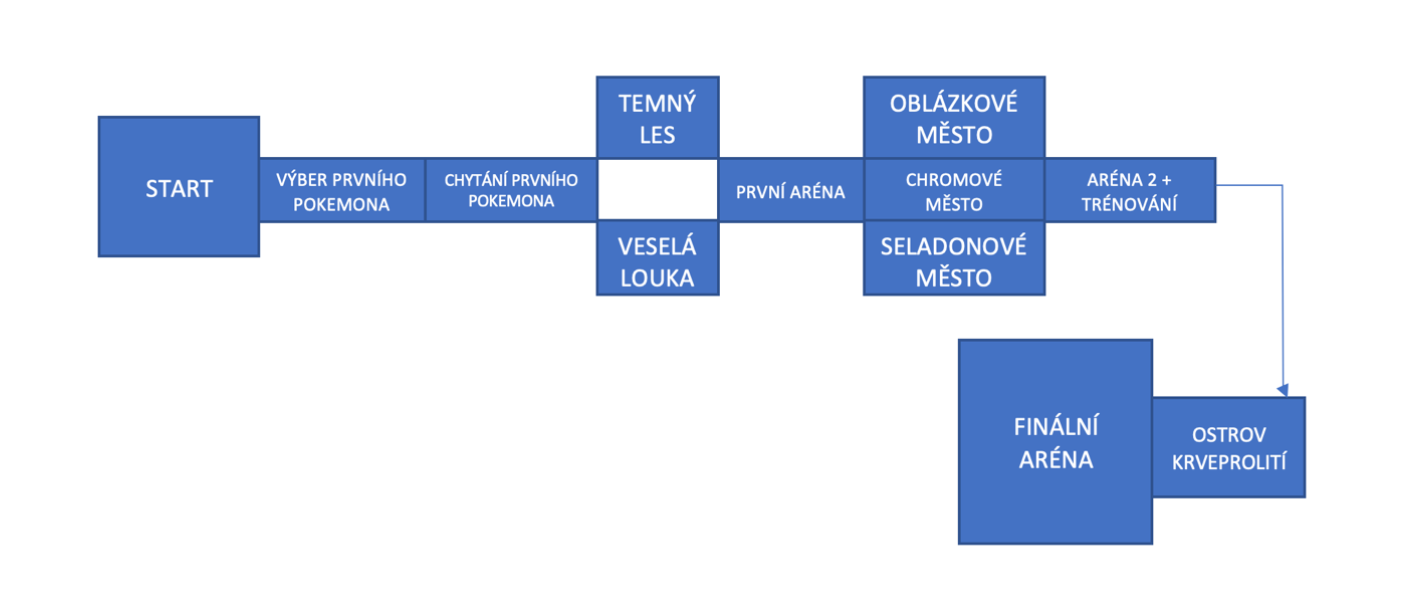
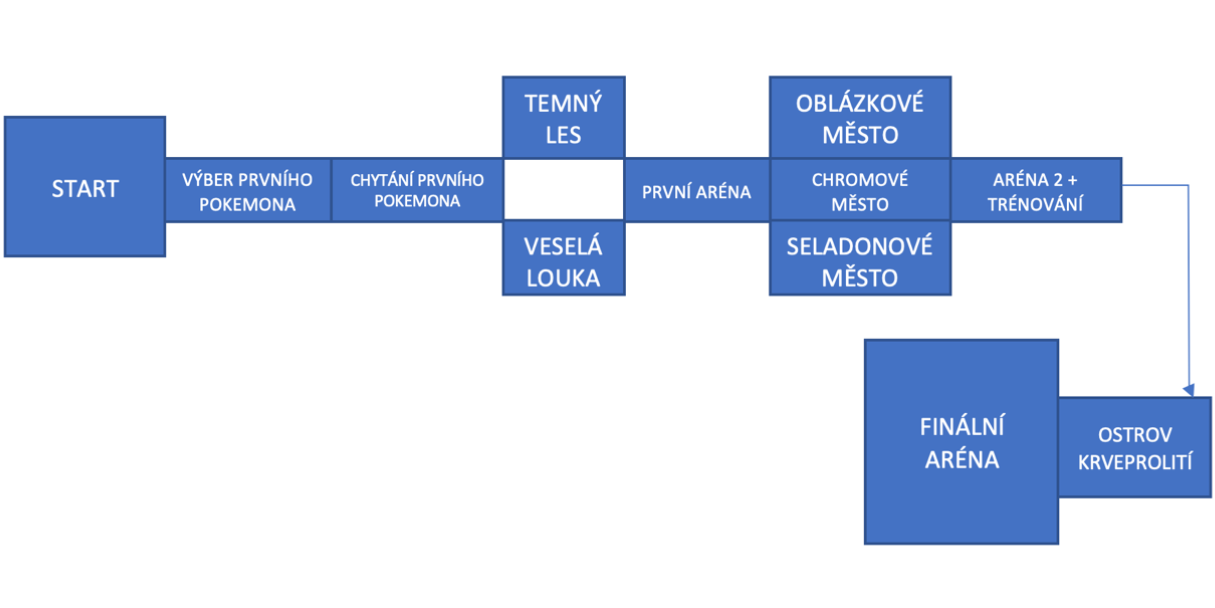
map res fix, txt/gui select add

Changed region(s): [[0.0, 0.125, 0.9745, 0.5], [0.67, 0.5312, 1.0, 0.9062], [0.7918, 0.8125, 0.8831, 0.9062]]

diff --git a/src/main/java/cz/vse/java/prom20/adventura/main/Controller.java b/src/main/java/cz/vse/java/prom20/adventura/main/Controller.java
@@ -65,11 +65,11 @@ public class Controller implements Initializable {
         batoh = iHra.getBatoh();
         pokemoni = iHra.getPokemoni();
         textVypis.setText(this.hra.vratUvitani());
-        listRefresh();
+        refresh();
     }
 
 
-    private void listRefresh() {
+    public void refresh() {
         setListOfExits();
         setListOfPokemonsInRoom();
         setlistOfItemsInRoom();
@@ -93,7 +93,7 @@ public class Controller implements Initializable {
                 String curentItem = listOfExits.getSelectionModel().getSelectedItem();
                 System.out.println(curentItem);
                 textVypis.setText(hra.zpracujPrikaz("jdi " + curentItem));
-                listRefresh();
+                refresh();
             }
         });
     }
@@ -105,7 +105,7 @@ public class Controller implements Initializable {
                 String currentItem = listOfItemsInRoom.getSelectionModel().getSelectedItem();
                 System.out.println(currentItem);
                 textVypis.setText(hra.zpracujPrikaz("batoh seber " + currentItem));
-                listRefresh();
+                refresh();
 
             }
         });
@@ -126,14 +126,13 @@ public class Controller implements Initializable {
                     if (pokemoni.getSetChycenychPokemonu().size() < 1 || hra.getHerniPlan().getAktualniMistnost().getUrovenHernihoPlanu() == 2) {
                         textVypis.setText(hra.zpracujPrikaz("chytni " + currentPokemon));
                     } else {
-                        listRefresh();
+                        refresh();
                         Gui gui = start.getGui();
                         gui.getKomunikaceControlleru().setPredavanyPokemon(currentPokemon);
                         gui.startSouboje();
-
                     }
                 }
-                listRefresh();
+                refresh();
             }
         });
     }
@@ -152,7 +151,7 @@ public class Controller implements Initializable {
 
         String odpoved = hra.zpracujPrikaz(terminal.getText());
         textVypis.setText(odpoved);
-        listRefresh();
+        refresh();
         System.out.println(batoh.getNazvyVeci());
         // System.out.println(hra.getKomunikaceKontroleru().getPredavanyPokemon());
 
@@ -231,7 +230,7 @@ public class Controller implements Initializable {
 
     @FXML
     private void onActionMenuBarNapoveda(ActionEvent actionEvent) {
-        //TODO Je nápověda potřeba?
+        gui.starNapovedaPokemoni();
     }
 
     @FXML

diff --git a/src/main/java/cz/vse/java/prom20/adventura/main/Gui.java b/src/main/java/cz/vse/java/prom20/adventura/main/Gui.java
@@ -86,10 +86,29 @@ public class Gui {
             root = loader.load();
             Stage stage = new Stage();
             stage.setTitle("Mapa");
-            stage.setScene(new Scene(root, 740, 432));
+            stage.setScene(new Scene(root, 678, 432));
             Controller controller = loader.getController();
             stage.show();
             Image image = new Image("file:mapa.png");
+            imageMapa.setImage(image);
+            imageMapa.setCache(true);
+        } catch (IOException e) {
+            e.printStackTrace();
+        }
+    }
+
+    void starNapovedaPokemoni() {
+        Parent root;
+        try {
+            FXMLLoader loader = new FXMLLoader();
+            loader.setLocation(getClass().getResource("/napovedaPokemoni.fxml"));
+            root = loader.load();
+            Stage stage = new Stage();
+            stage.setTitle("Tabulka pokémonů");
+            stage.setScene(new Scene(root, 623, 583));
+            Controller controller = loader.getController();
+            stage.show();
+            Image image = new Image("file:pokemoni.png");
             imageMapa.setImage(image);
             imageMapa.setCache(true);
         } catch (IOException e) {

diff --git a/src/main/java/cz/vse/java/prom20/adventura/logika/PrikazBojujProGUI.java b/src/main/java/cz/vse/java/prom20/adventura/logika/PrikazBojujProGUI.java
@@ -64,9 +64,6 @@ class PrikazBojujProGUI implements IPrikaz {
                 return "Tady bojovat nemusíš, pouzij příkaz chytni jmeno_pokemona";
             } else {
                 if (herniPlan.getAktualniMistnost().getSeznamPokemonuJakoText() != null) {
-                    // System.out.println(getAsciiDragon());
-                    // System.out.println("Vyber svého bojovníka!\n " + pokemoni.getSeznamChycenychPokemonuJakoText());
-                    //Scanner scanner = new Scanner(System.in);
 
                 }
             }
@@ -80,8 +77,6 @@ class PrikazBojujProGUI implements IPrikaz {
         System.out.println("--------");
 
         int pokusy = 3;
-        //Scanner sc = new Scanner(System.in);
-        //String ovladac = "";
 
         while (pokusy > 0) {
 

diff --git a/src/main/java/cz/vse/java/prom20/adventura/logika/KomunikaceControlleru.java b/src/main/java/cz/vse/java/prom20/adventura/logika/KomunikaceControlleru.java
@@ -10,12 +10,16 @@ package cz.vse.java.prom20.adventura.logika;
 public class KomunikaceControlleru {
     private String predavanyPokemon;
     Hra hra;
+    private boolean bylUzBoj = false;
 
 
     public KomunikaceControlleru(Hra hra) {
         this.hra = hra;
     }
 
+    public void setUzBojProbehl(boolean uzBojProbehl) {
+        this.bylUzBoj = uzBojProbehl;
+    }
 
     public void setPredavanyPokemon(String predavanyPokemon) {
         this.predavanyPokemon = predavanyPokemon;
@@ -25,5 +29,7 @@ public class KomunikaceControlleru {
         return predavanyPokemon;
     }
 
-
+    public boolean getBylUzBoj() {
+        return bylUzBoj;
+    }
 }

diff --git a/src/main/java/cz/vse/java/prom20/adventura/main/ControllerSouboje.java b/src/main/java/cz/vse/java/prom20/adventura/main/ControllerSouboje.java
@@ -63,11 +63,6 @@ public class ControllerSouboje implements Initializable {
     }
 
 
-    public void setController(Controller controller) {
-        this.controller = controller;
-    }
-
-
     private void setSouperStats() {
 
         souperTextJmeno.setText(getSouperuvPokemon().getJmenoPokemona());
@@ -131,10 +126,13 @@ public class ControllerSouboje implements Initializable {
         }
     }
 
-
     void refresh() {
         setSouperStats();
         comboVyberPokemona();
+    }
+
+    public void setToKomunikaceBylUzBoj() {
+        komunikaceControlleru.setUzBojProbehl(bylUzBoj);
     }
 
     @Override
